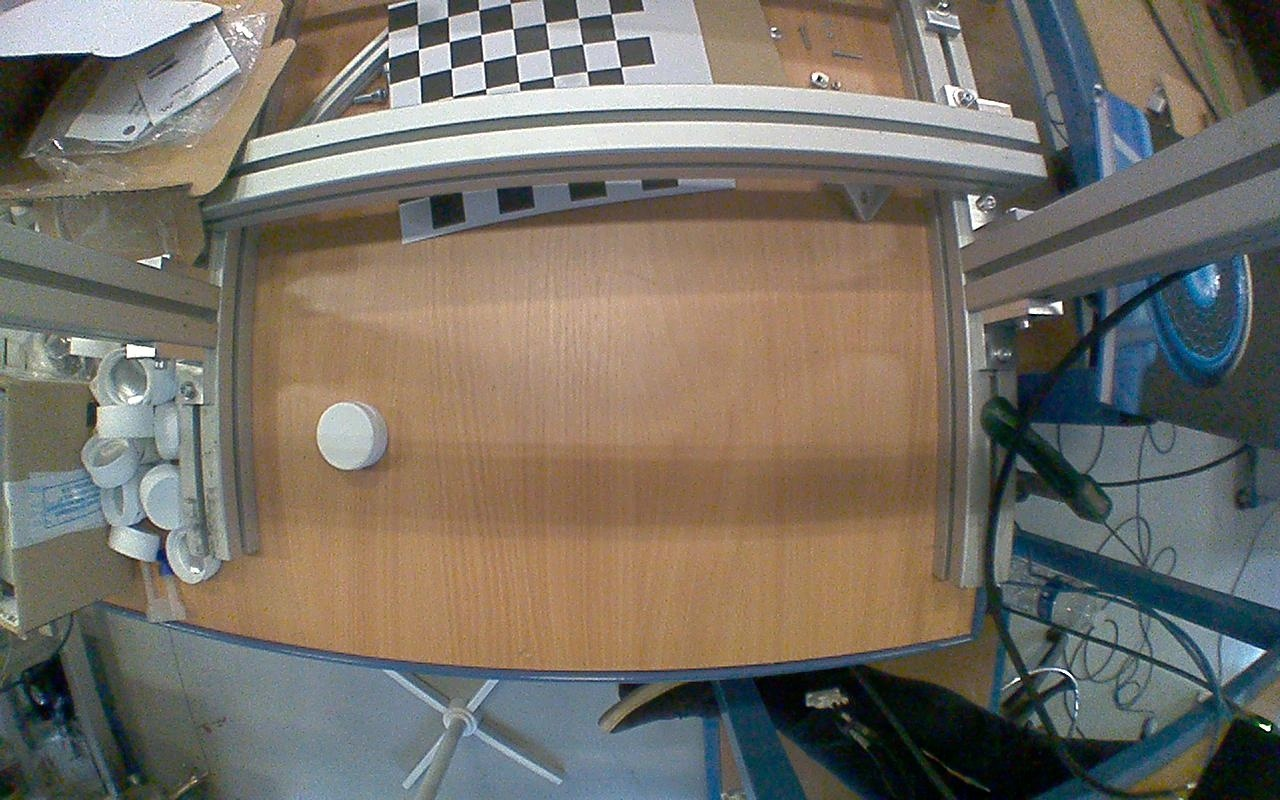
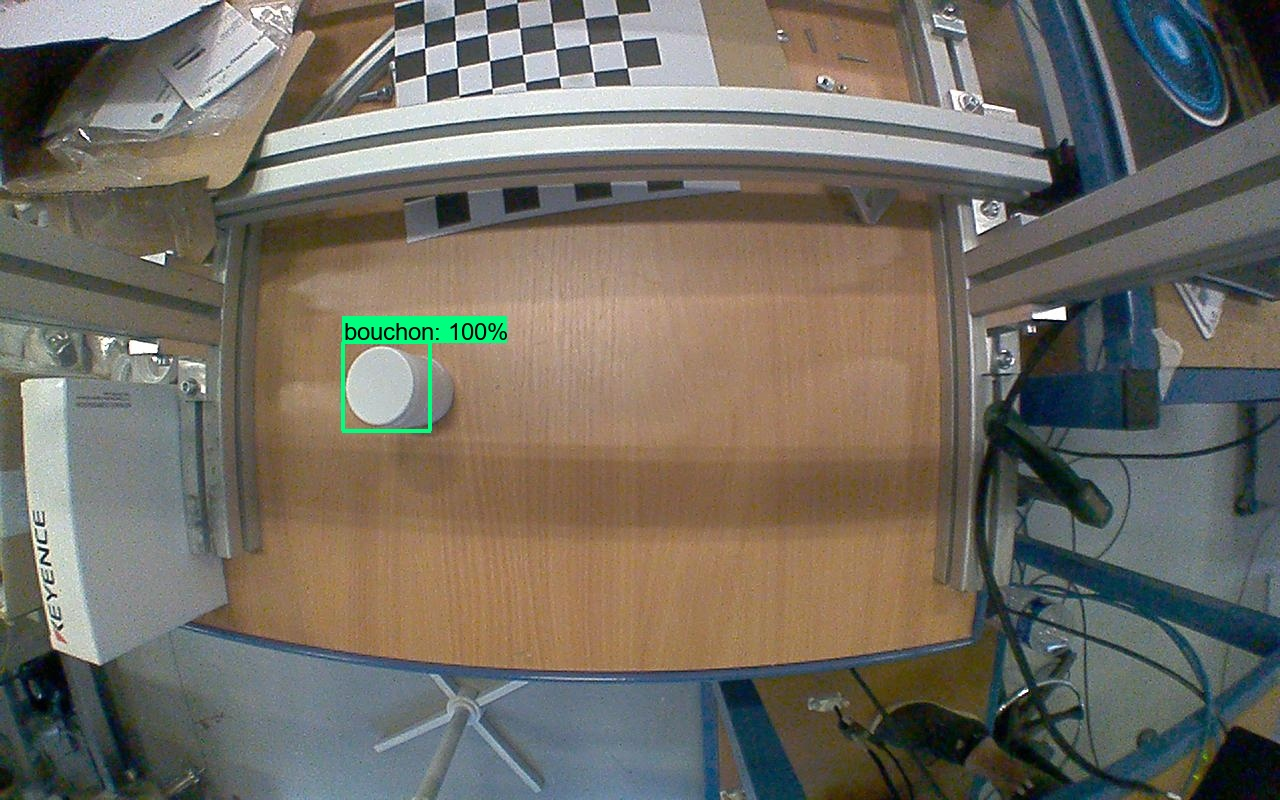
1rst test to take zpoint value

diff --git a/Main.py b/Main.py
@@ -64,6 +64,7 @@ files = {
 
 im_width=1280
 im_height=800
+
  # Load pipeline config and build a detection model
 configs = config_util.get_configs_from_pipeline_file(files['PIPELINE_CONFIG'])
 detection_model = model_builder.build(model_config=configs['model'], is_training=False)
@@ -89,20 +90,7 @@ o3r.set(config)
 while True:  # making a loop
     print("loop")
     if keyboard.is_pressed('t'):  # if key 't' is pressed trigger photo    
-        fg = FrameGrabber(o3r, pcic_port=50012) #Expecting a head on Port 2 (Port 2 == 50012)
-        im = ImageBuffer()     
-        if fg.wait_for_frame(im, 1000):
-            # 3D Data
-            img3D = im.distance_image()
-            plt.imshow(img3D)
-            plt.savefig('myfilename3D.png', dpi=100)
-            print("3D photo Saved")
-
-            # Read the distance image and display a pixel in the center
-            dist = im.distance_image()
-            (width, height) = dist.shape
-            print(dist[width//2,height//2])
-
+        
 
         fg = FrameGrabber(o3r, pcic_port=50010) #Expecting a head on Port 0 (Port 0 == 50010)
         im = ImageBuffer()
@@ -162,15 +150,40 @@ while True:  # making a loop
 
             plt.imshow(cv2.cvtColor(image_np_with_detections, cv2.COLOR_BGR2RGB))
             print(detections['detection_scores'])
-            #(left, right, top, bottom) = (xmin * im_width, xmax * im_width, ymin * im_height, ymax * im_height)
+            #(left, right, bottom, top) = (xmin * im_width, xmax * im_width, ymin * im_height, ymax * im_height)
             print(detections['detection_boxes'])
+            print(detections['detection_boxes'][0][0])
+            objbb = ((detections['detection_boxes'][0][0])*im_width),((detections['detection_boxes'][0][1])*im_width),((detections['detection_boxes'][0][2])*im_height),((detections['detection_boxes'][0][3])*im_height)
 
-
-            print(im_width)
+            print(objbb)
+            objcenter = (((objbb[0]+objbb[1])/2),((objbb[2]+objbb[3])/2))
+            print(objcenter)
 
             cv2.imwrite('D:/Code/OVP800_IFM/bouchon26.jpg', image_np_with_detections)
             image = Image.open('D:/Code/OVP800_IFM/bouchon26.jpg')
             image.show()
+
+        fg = FrameGrabber(o3r, pcic_port=50012) #Expecting a head on Port 2 (Port 2 == 50012)
+        im = ImageBuffer()     
+        if fg.wait_for_frame(im, 1000):
+            # 3D Data
+            img3D = im.distance_image()
+            plt.imshow(img3D)
+            plt.savefig('myfilename3D.png', dpi=100)
+            print("3D photo Saved")
+
+            # Read the distance image and display a pixel in the center
+            dist = im.distance_image()
+            (width, height) = dist.shape
+            print(dist.shape)
+            print(dist[width//2,height//2])
+            
+            xaskz = round((objcenter[0]-148)/4.4)
+            yaskz = round((objcenter[1]-22)/4.4)
+            print(yaskz)
+            print(dist[xaskz,yaskz])
+            print(dist[65,87])
+
 
     #tif keyboard.is_pressed('q'):  # if key 'q' is pressed t
         print('Exiting...')
@@ -178,4 +191,4 @@ while True:  # making a loop
         # close port to avoid overheating
         config['ports']['port2']['state'] = "IDLE" #Expecting a head on Port 0
         o3r.set(config)
-        break  # finishing the loop main?
+        break  # finishing the loop
